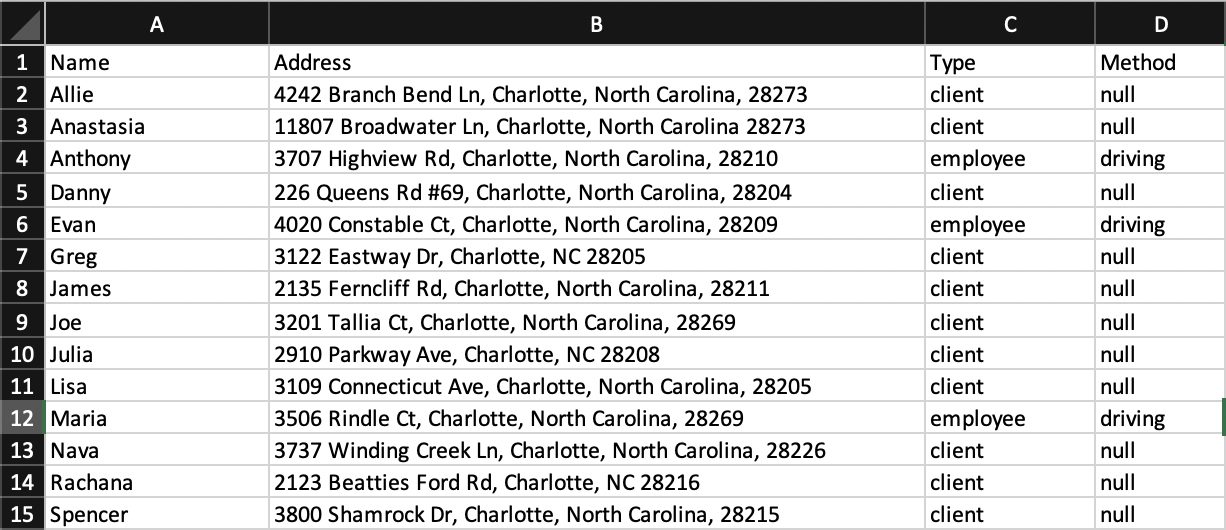
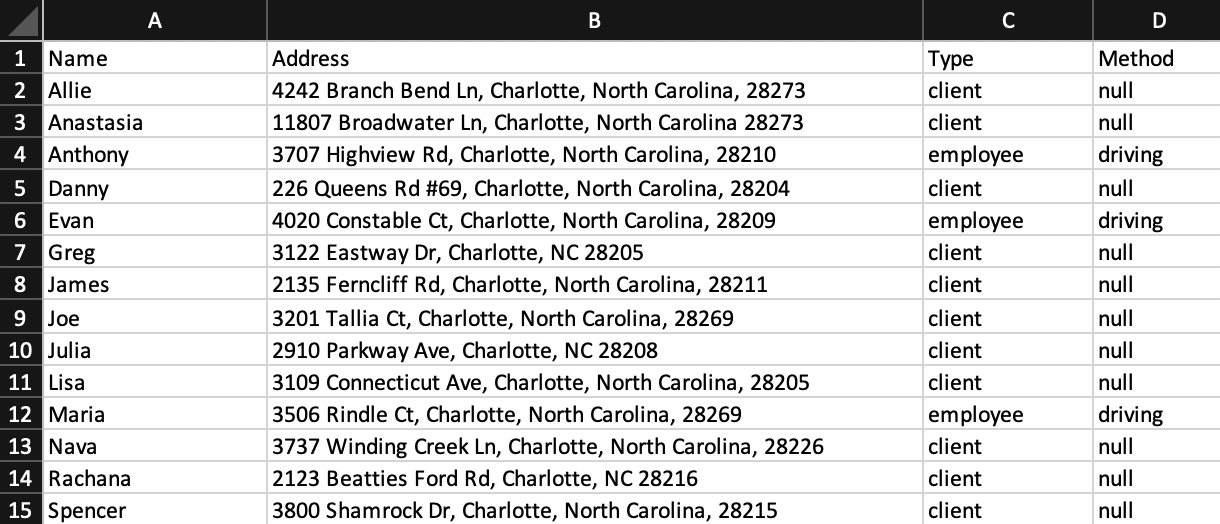
homepage stuff

Changed region(s): [[0.0, 0.0, 1.0, 1.0]]

diff --git a/public/assets/styles.css b/public/assets/styles.css
@@ -99,6 +99,7 @@ li > p {
     flex-direction: column;
     justify-content: center;
     align-items: center;
+    box-shadow: 0px 4px 12px -3px #000000;
 }
 
 .title-font {
@@ -225,16 +226,18 @@ li > p {
     margin-top: 3rem;
 }
 
-#img-container {
-    width: 750px;
-    height: 335px;
+.img-container {
+    /* width: 750px;
+    height: 335px; */
     border-radius: 0.5rem;
 }
 
 #excel-example {
     max-width: 100%;
     max-height: 100%;
+    border: 1px solid #b5b4b3;
     border-radius: 0.5rem;
+    box-shadow: 0px 4px 12px -3px #000000;
 }
 
 #graph-example {
@@ -242,13 +245,16 @@ li > p {
     max-height: 100%;
     text-align: center;
     border-radius: 0.5rem;
+    box-shadow: 0px 4px 12px -3px #000000;
 }
+
 .homepage-text {
     background-color: #2b2b2b;
     height: auto;
     border: 2px solid white;
     border-radius: 0.5rem;
     flex-grow: 1;
+    box-shadow: 0px 4px 12px -3px #000000;
 }
 
 #home-container {

diff --git a/client/components/ExcelDropzone.jsx b/client/components/ExcelDropzone.jsx
@@ -262,7 +262,7 @@ function ExcelDropzone() {
                         </div>
                         <p>All files must fit this format!</p>
                     </div>
-                    <div id="graph-example">
+                    <div id="graph-example-container">
                         <h2>Graph Example</h2>
                         <div className="img-container">
                             <img
